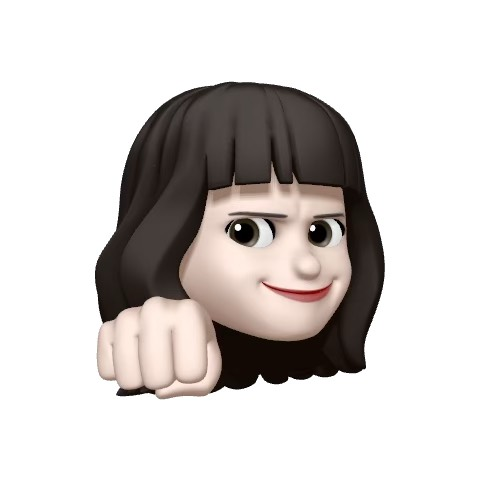
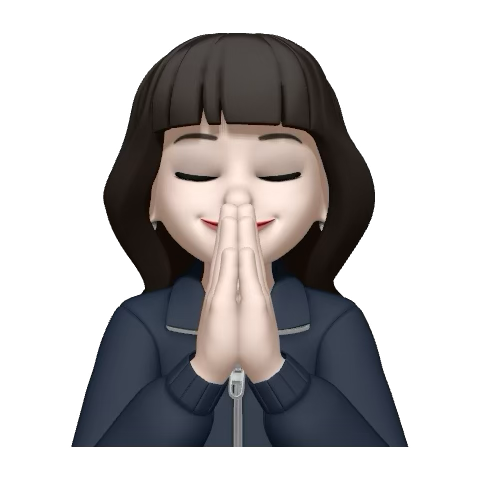
modified

diff --git a/index.html b/index.html
@@ -45,7 +45,7 @@
       <div class="sidebar-info">
 
         <figure class="avatar-box">
-          <img src="./assets/images/profile.JPG" alt="Minjee Seo" width="80">
+          <img src="./assets/images/my-avatar.png" alt="Minjee Seo" width="80">
         </figure>
 
         <div class="info-content">
@@ -233,7 +233,7 @@
                 <h4 class="h4 service-item-title">Numerical Simulations for Treatment Planning</h4>
 
                 <p class="service-item-text">
-                  Predicting the treatment outcome is crucial to ensure safe and efficient treatment. We predict and validate therapeutic effects of treatments such as focused ultrasound therapy, laser irradiation, and radiofrequency ablation using numerical methods.
+                  Predicting the treatment outcome is crucial to ensure safe and efficient treatment. We predict and validate therapeutic effects of treatments such as focused ultrasound, laser irradiation, and radiofrequency ablation using numerical methods.
                 </p>
               </div>
 
@@ -548,8 +548,8 @@
 
         <section class="contact-description">
           <p class="timeline-text">
-            Advanced Science and Technology Center (ASTC)<br>
-            You can reach me via email at <a href="mailto:islandz@yonsei.ac.kr">islandz@yonsei.ac.kr</a>.<br>
+            Advanced Science and Technology Center (ASTC) 616, Yonsei University, South Korea<br>
+            You can reach me via email at <a href="mailto:islandz@yonsei.ac.kr">islandz@yonsei.ac.kr</a><br>
           </p>
         </section>
 
